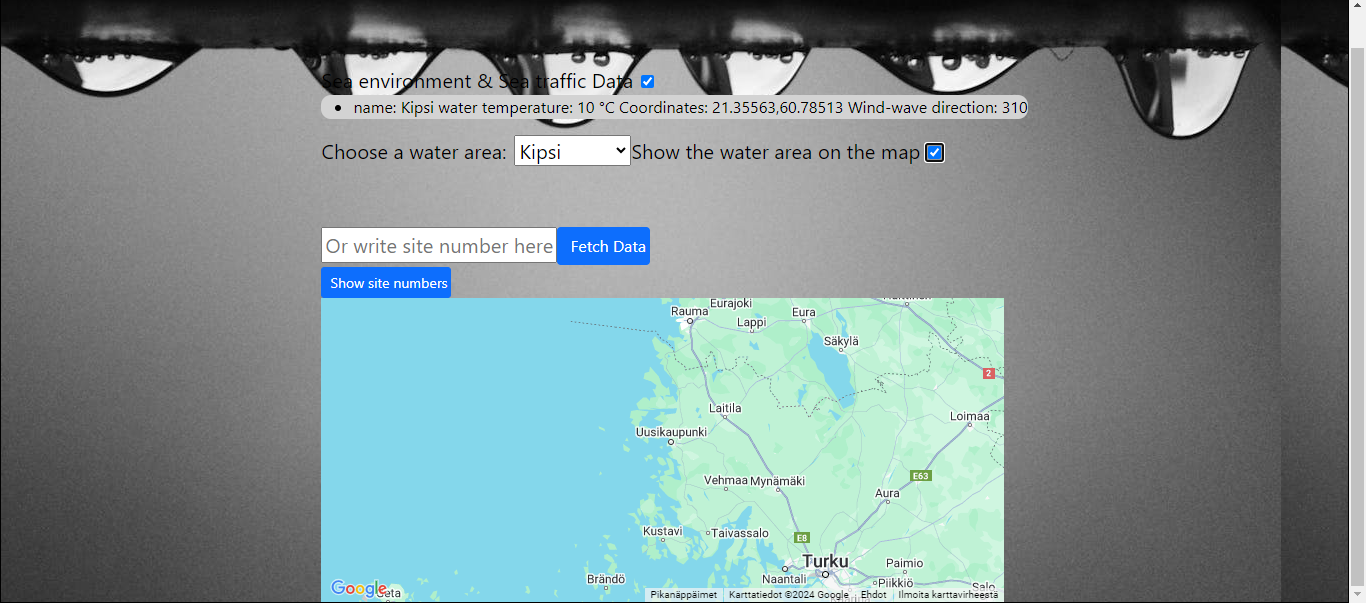
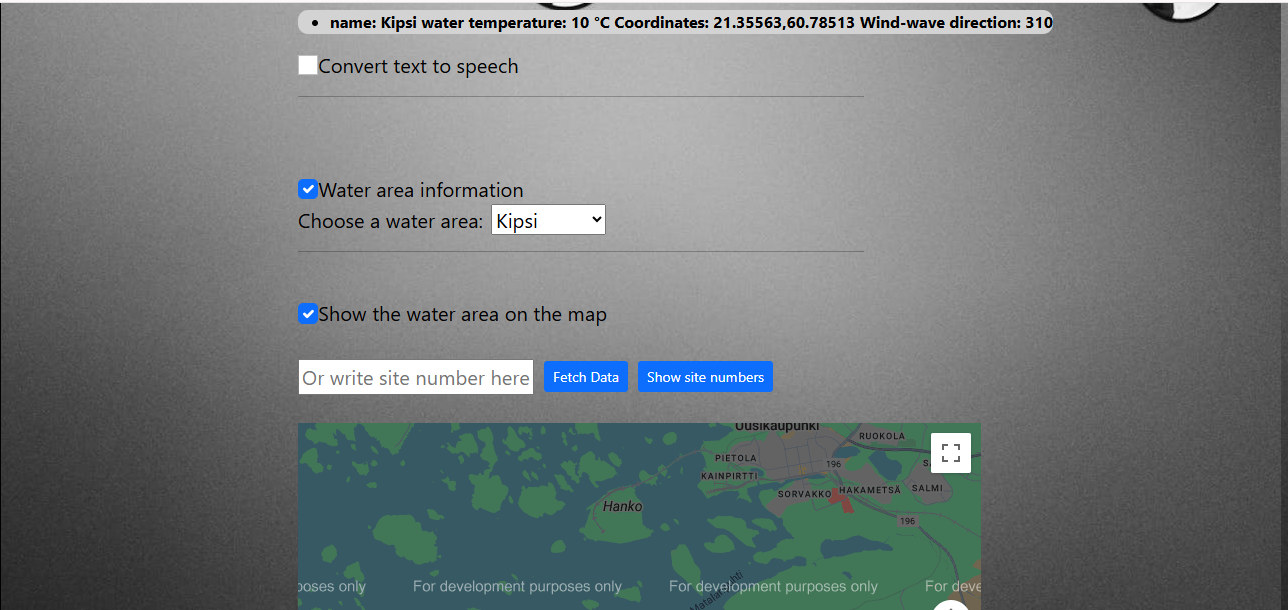
improvements to sea.js

diff --git a/src/pages/sea.js b/src/pages/sea.js
@@ -3,7 +3,7 @@ import { BrowserRouter, Routes, Route, Link, useNavigate } from 'react-router-do
 import WsComponent from "./seaWebSocket";
 import { APIProvider, Map } from '@vis.gl/react-google-maps';
 import MarineWarnings from "./marineWarns"
-import $ from "jquery";
+import '../App.css';
 function Sea() {
 
     const [waterName, setWaterName] = useState('')
@@ -142,14 +142,10 @@ function Sea() {
     }
 
     function speak(val) {
-        // Create a SpeechSynthesisUtterance
         const utterance = new SpeechSynthesisUtterance(val);
-
-        // Select a voice
         const voices = speechSynthesis.getVoices();
-        utterance.voice = voices[0]; // Choose a specific voice
-      
-        // Speak the text
+        utterance.voice = voices[0];
+        utterance.lang="en-US"
         speechSynthesis.speak(utterance);
       }
     return (
@@ -165,7 +161,11 @@ function Sea() {
             <div id="lakeContent" className="lakeContent">
                 <ul id="list" className="list"></ul>
             </div>
-            <button onClick={()=>speak(document.getElementById("list").innerHTML)}>speak</button>
+            
+            
+            <input class="form-check-input" id="speakCB" onClick={()=>speak(document.getElementById("list").innerHTML)}></input>
+            <label class="form-check-label" for="speakCB">Convert text to speech</label>
+            <hr className="hrLine"></hr>
             <input class="form-check-input" hidden={hideSafety} id='safetyCB' type="checkbox" onClick={safetyFails}></input>
             <label class="form-check-label" hidden={hideSafety} for="safetyCB">Safety device faults</label>
             <br></br>
@@ -184,34 +184,39 @@ function Sea() {
                 <option value="20243">Kipsi</option>
                 <option value="20244">Talla</option>
             </select>
-            <label hidden={waterAreas} htmlFor="map">
-            Show the water area on the map</label>
-            <input hidden={waterAreas} id="map" type="checkbox" onChange={()=>setMapState(!mapState)}></input>
+            <hr className="hrLine"></hr>
+            <br></br>
+            <input class="form-check-input" hidden={waterAreas} id="map" type="checkbox" onChange={()=>setMapState(!mapState)}></input>
+            <label class="form-check-label" hidden={waterAreas} for="map">Show the water area on the map</label>
+           
             <br></br>
     
             <div>
                 {/*käytetään samaa halufunktiota sekä select että input kentässä. erona ainoastaa se
     että syötekenttä haussa parametri tallennetaan state-muuttujaan ja lähetetään funktiolle
     vasta onclick kutsussa.*/}
-                <br></br>
+                
                 <br></br>
                 <Link hidden to="/websocket">WebSocket</Link>
                 <div className="seaInput">
                     <input type="text" hidden={waterAreas} id="name" className="name" placeholder="Or write site number here" onChange={e => setWaterName(e.target.value)}></input>
 
-                    <button onClick={() => getSelectedLake(waterName)} hidden={waterAreas} class="btn btn-primary">Fetch Data</button>
-                    <br></br>
+                    <button onClick={() => getSelectedLake(waterName)} hidden={waterAreas} class="btn btn-primary btn-sm">Fetch Data</button>
+                    
                     <button class="btn btn-primary btn-sm"hidden={waterAreas} onClick={availableAreas}>Show site numbers</button>
                 </div>
+                <br></br>
+                <div className="mapArea">
                 {mapState && <APIProvider apiKey={""}>
                 <Map
                     
-                    style={{ width: '50vw', height: '50vh' }}
+                    style={{ width: '50vw', height: '45vh' }}
                     defaultCenter={{ lat: latitude, lng: longitude }}
-                    defaultZoom={10}
+                    defaultZoom={12}
                     gestureHandling={'greedy'}
                     disableDefaultUI={false} />
             </APIProvider>}
+            </div>
             </div>
         </div>
 

diff --git a/src/App.css b/src/App.css
@@ -49,6 +49,7 @@
   background-color: lightgray;
   border-radius: 10px;
   font-size: medium;
+  font-weight: bold;
   
 }
 
@@ -66,9 +67,9 @@
   float:left;
 
 }
-.seaInput button {
+.seaInput>button {
  
-  padding-right: 0.2em;
+  margin-left: 10px;
 
  
 }
@@ -79,4 +80,10 @@
 .graph {
   min-height: 600px;
 }
+.hrLine {
+  width:75%;
+  border-width: 4;
+  color: black;
+}
+
 

diff --git a/README.md b/README.md
@@ -1,4 +1,4 @@
-Project keywords: JavaScript, React, Open API, GraphQL, Bootstrap 5, JSON
+Project keywords: JavaScript, React, SpeechSynthesis API, GraphQL, Bootstrap 5, JSON
 
 The purpose of this program is to produce useful traffic and environmental information in clear language for the user to read. Data is retrieved from the open APIs provided by Digitraffic in accordance with the user's search criteria.
 
@@ -19,10 +19,7 @@ All search criteria entered by the user are passed as parameters to the api endp
 
 GraphQL API queries are available for rail traffic and user can write queries themselves. queries are written to the textarea element and stored in a state variable. GraphQL API queries are implemented with the Apollo client.
 
-Weather camera images are retrieved from weathercam.digitraffic.fi/(id) The images of the camera to be displayed are selected from the html selection component and the selected image is displayed in the html img element. The URLs of the camera images are stored in variables and the selected component has an onChange event handler function that performs the search and display of the user's desired image.
-
-The image of each weather camera can be changed by pressing the "change camera" button.
-There are 3 different angles for each camera.
+Weather camera images are retrieved from weathercam.digitraffic.fi/(id) The images of the camera to be displayed are selected from the html selection component and the selected image is displayed in the html img element. The URLs of the camera images are stored in variables and the selected component has an onChange event handler function that performs the search and display of the user's desired image. The image of each weather camera can be changed by pressing the "change camera" button. There are 3 different angles for each camera.
 
 Readability of the response text
 
@@ -34,13 +31,18 @@ An example view where the user has searched for valid train passenger bulletins 
 
 ![alt text](src/images/dataoftrain-1.png)
 
-An example image from which the information of the water area called Kipsi has been retrieved. the information displayed is, for example, the water temperature, coordinates and the direction of the wind wave. A Google Maps image of the water area can be displayed by clicking on the checkbox. the map image gets the necessary coordinates from the API
-
-The user can also search for the desired water area using the input field.
-
-The API search works with the siteNumber value, so the "show site numbers" button searches and displays the names of the water areas and the "siteNumber" values to the user, making it easy for the user to select the desired water area. 
+An example image from which the information of the water area called Kipsi has been retrieved. the information displayed is, for example, the water temperature, coordinates and the direction of the wind wave. A Google Maps image of the water area can be displayed by clicking on the checkbox. the map image gets the necessary coordinates from the API.
+When you click the Convert text to speech checkbox, the application converts the retrieved data into speech using the SpeecSynthesis API. Finally, the application plays the result through the device speakers.
 
 ![alt text](src/images/seaExample.png)
+
+The user can also search for the desired water area using the input field.
+The API search works with the siteNumber value, so the "show site numbers" button searches and displays the names of the water areas and the "siteNumber" values to the user, making it easy for the user to select the desired water area. 
+
+Sample image of the list of available water areas
+
+![alt text](src/images/sites.png)
+
 
 Example image where the user has searched for all ongoing roadworks in Finland and opened one of the roadworks in the Google Maps map view. Each roadwork has a Bootstrap 5 style button, which the user can click to open the roadwork location in the Google Maps view. The latitude/longitude coordinates of the roadwork are stored in React State variables after the button is clicked and sent as parameters to the Maps component implementing the map view.
 
